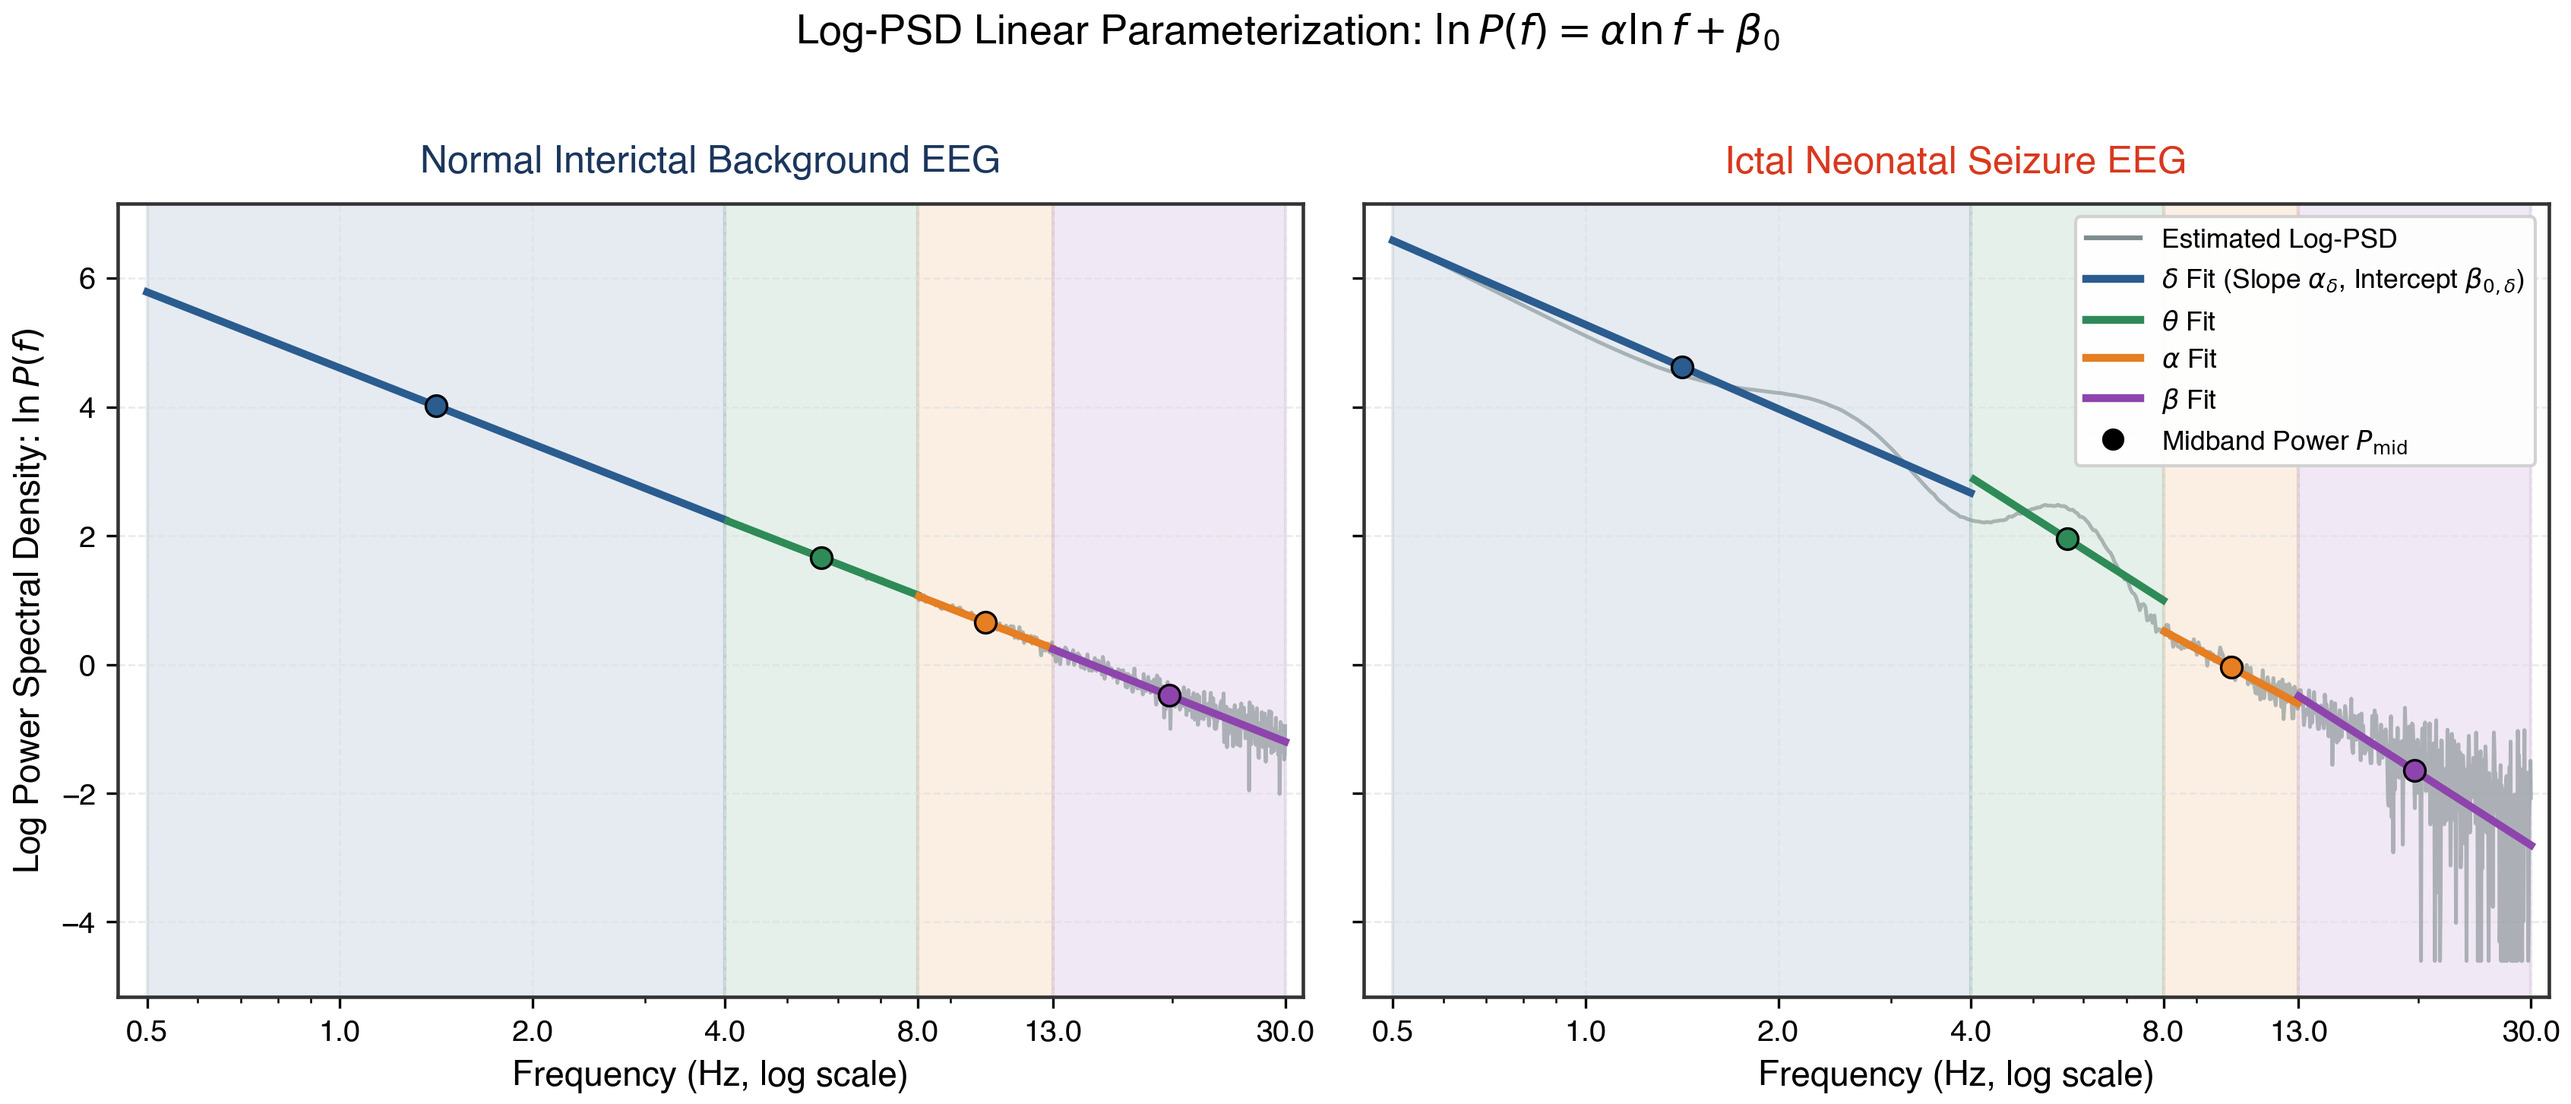
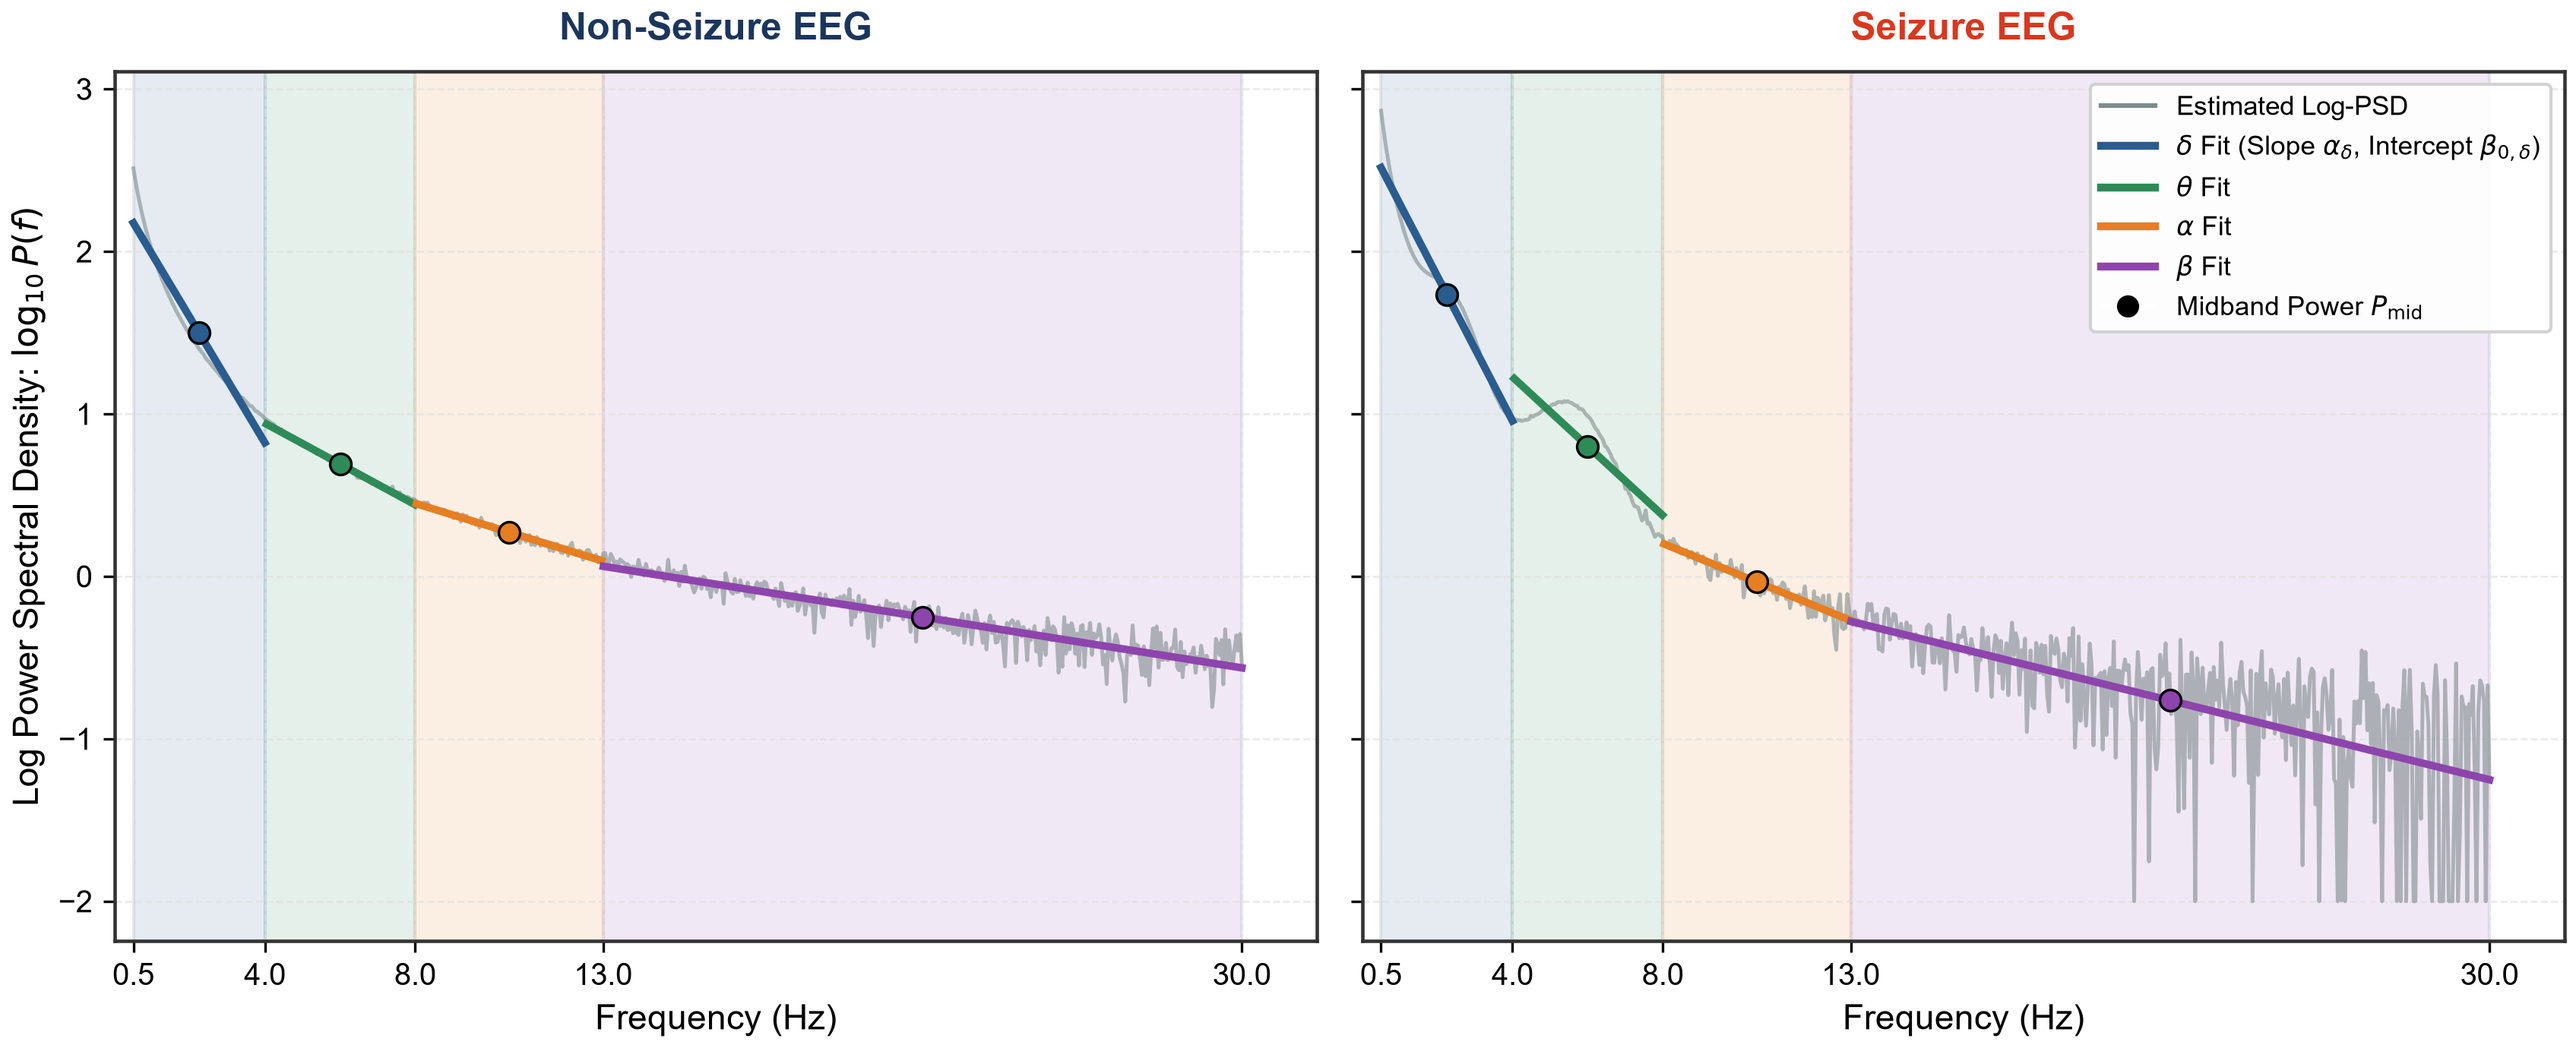
style(paper): fix fig01 to use linear-log parameterization, remove equation, and rename EEG states

diff --git a/generate_paper_plots.py b/generate_paper_plots.py
@@ -124,7 +124,7 @@ def save_fig(fig, base_name, formats=('png', 'pdf')):
 # ==============================================================================
 def generate_fig01_concept():
     """
-    Illustrates the log-log linear fitting methodology across canonical bands
+    Illustrates the linear-log fitting methodology across canonical bands
     (Delta, Theta, Alpha, Beta) contrasting Background vs Seizure spectra.
     """
     print("Generating Fig 01: Spectral Slope Biomarker Formulation Concept...")
@@ -150,43 +150,42 @@ def generate_fig01_concept():
     ]
 
     for ax, psd, title, state_color in [
-        (axes[0], psd_bg, 'Normal Interictal Background EEG', COLORS['primary']),
-        (axes[1], psd_sz, 'Ictal Neonatal Seizure EEG', COLORS['seizure']),
+        (axes[0], psd_bg, 'Non-Seizure EEG', COLORS['primary']),
+        (axes[1], psd_sz, 'Seizure EEG', COLORS['seizure']),
     ]:
-        log_f = np.log(freqs)
-        log_p = np.log(psd)
+        # Using linear frequency and log power
+        lin_f = freqs
+        log_p = np.log10(psd)
 
-        # Plot underlying raw spectrum in log-log
+        # Plot underlying raw spectrum in linear-log
         ax.plot(freqs, log_p, color='#7F8C8D', lw=1.2, alpha=0.6, label='Raw Log-PSD')
 
         # Fit lines per band
         for band_name, f_low, f_high, b_col in bands:
             mask = (freqs >= f_low) & (freqs <= f_high)
-            bf = log_f[mask]
+            bf = lin_f[mask]
             bp = log_p[mask]
             
             slope, intercept = np.polyfit(bf, bp, 1)
-            f_mid = np.sqrt(f_low * f_high)
-            p_mid = slope * np.log(f_mid) + intercept
+            f_mid = (f_low + f_high) / 2.0
+            p_mid = slope * f_mid + intercept
 
             # Shaded frequency band region
             ax.axvspan(f_low, f_high, color=b_col, alpha=0.12)
             
             # Regression line
             fit_line = slope * bf + intercept
-            ax.plot(np.exp(bf), fit_line, color=b_col, lw=2.4, label=f'{band_name} Fit')
+            ax.plot(bf, fit_line, color=b_col, lw=2.4, label=f'{band_name} Fit')
 
             # Midband marker
             ax.scatter([f_mid], [p_mid], color=b_col, s=45, zorder=5, edgecolors='black', linewidth=0.8)
 
-        ax.set_xscale('log')
-        ax.set_xlabel('Frequency (Hz, log scale)')
+        ax.set_xlabel('Frequency (Hz)')
         ax.set_title(title, color=state_color, pad=10)
-        ax.set_xlim(0.45, 32)
-        ax.xaxis.set_major_formatter(mpl.ticker.ScalarFormatter())
-        ax.set_xticks([0.5, 1.0, 2.0, 4.0, 8.0, 13.0, 30.0])
+        ax.set_xlim(0, 32)
+        ax.set_xticks([0.5, 4.0, 8.0, 13.0, 30.0])
 
-    axes[0].set_ylabel(r'Log Power Spectral Density: $\ln P(f)$')
+    axes[0].set_ylabel(r'Log Power Spectral Density: $\log_{10} P(f)$')
     
     # Custom Legend
     legend_elements = [
@@ -199,7 +198,6 @@ def generate_fig01_concept():
     ]
     axes[1].legend(handles=legend_elements, loc='upper right', framealpha=0.95, fontsize=8.5)
 
-    plt.suptitle(r'Log-PSD Linear Parameterization: $\ln P(f) = \alpha \ln f + \beta_0$', fontsize=13, y=1.02)
     plt.tight_layout()
     save_fig(fig, 'fig01_concept_spectral_slope')
 
